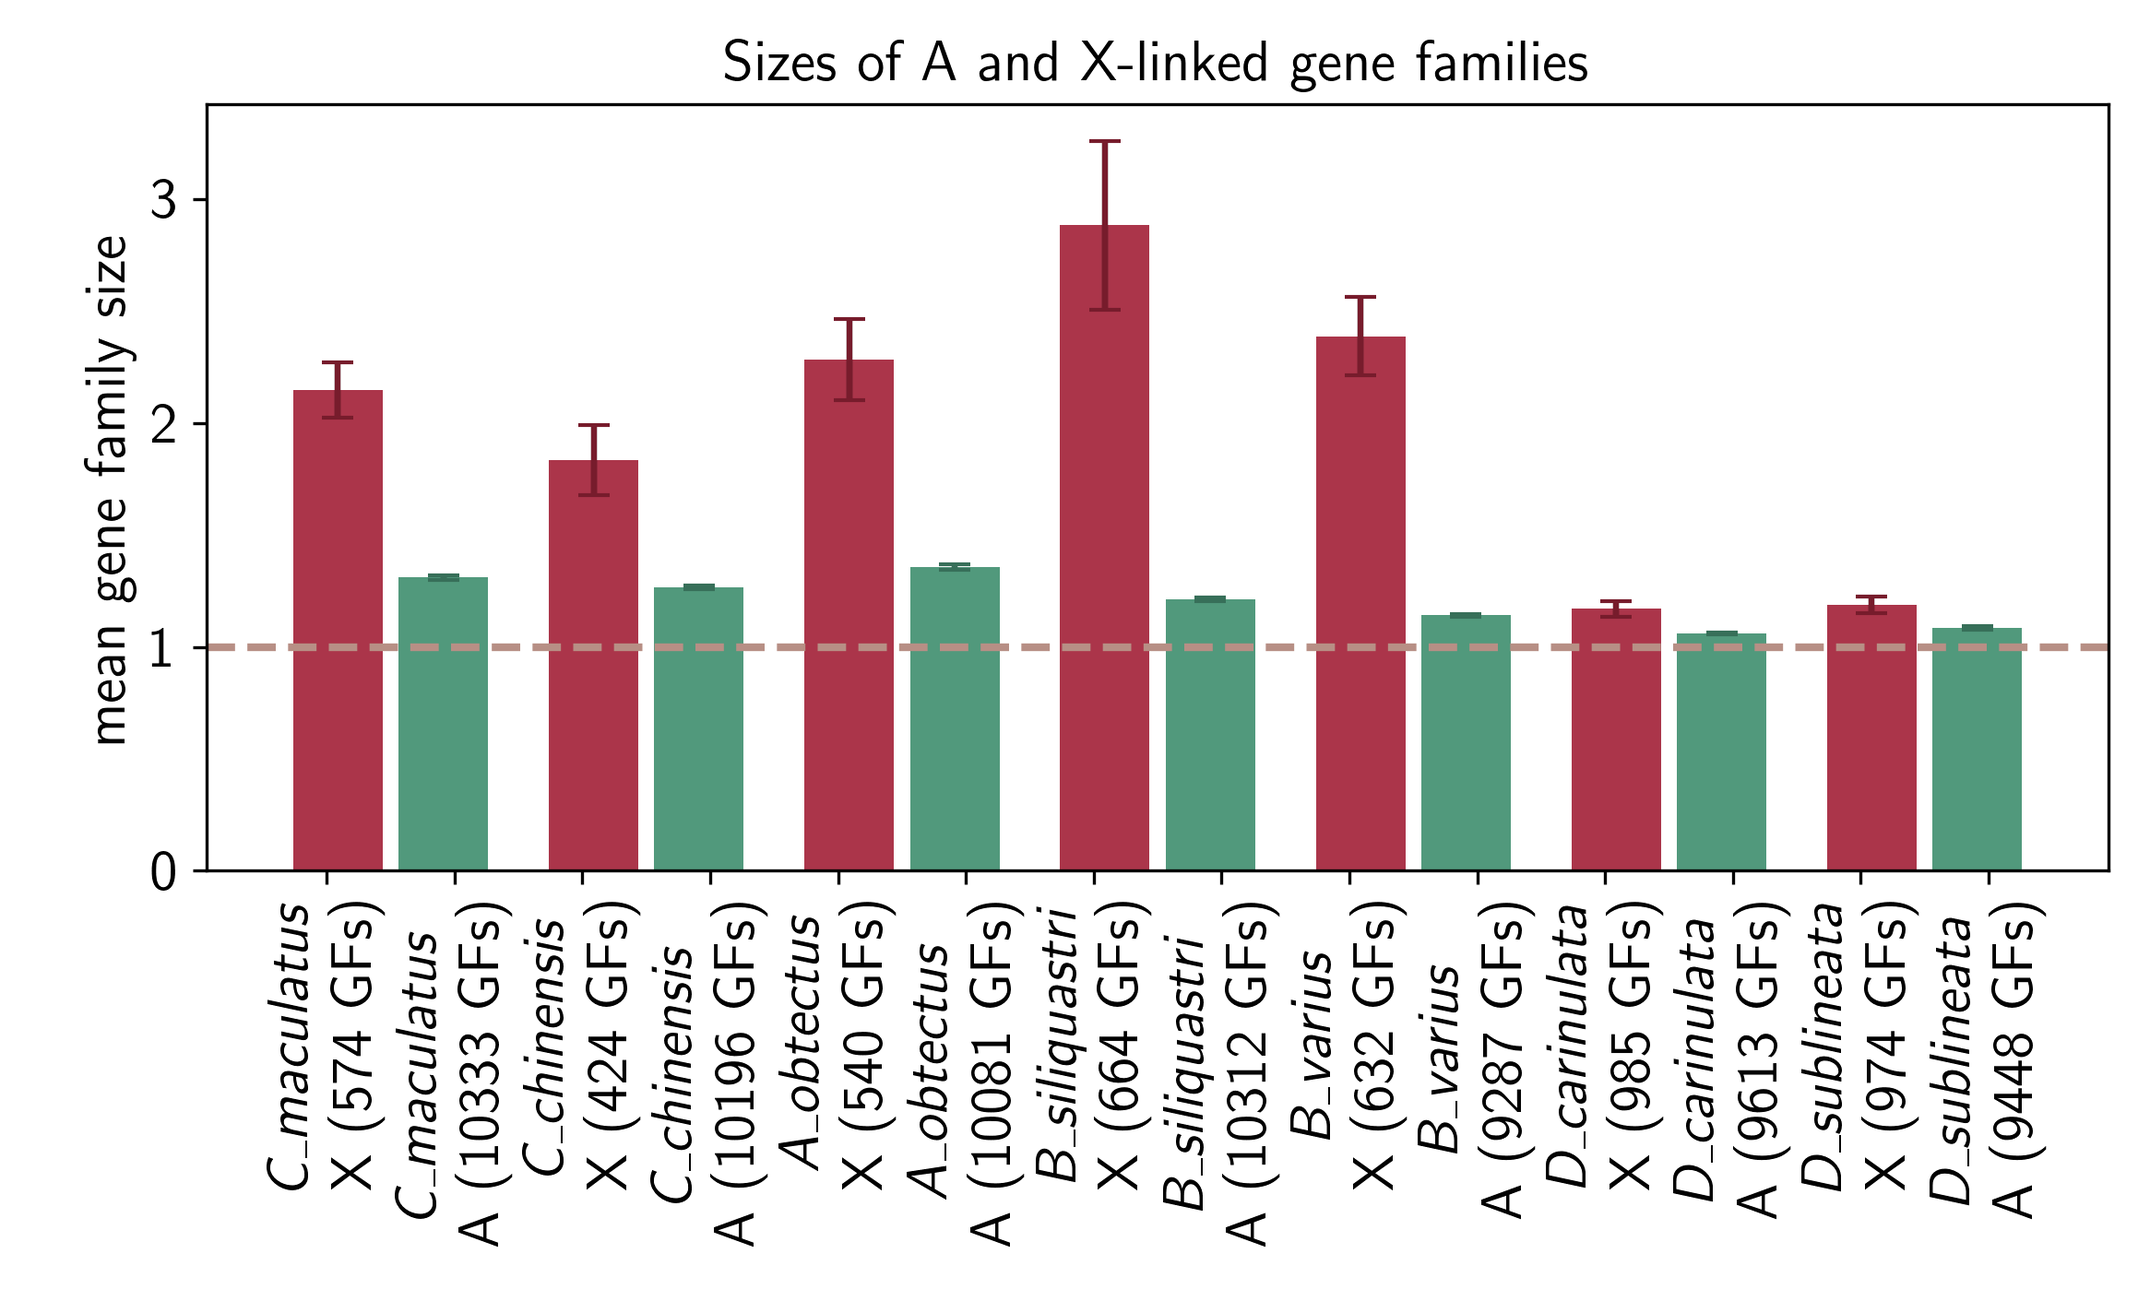
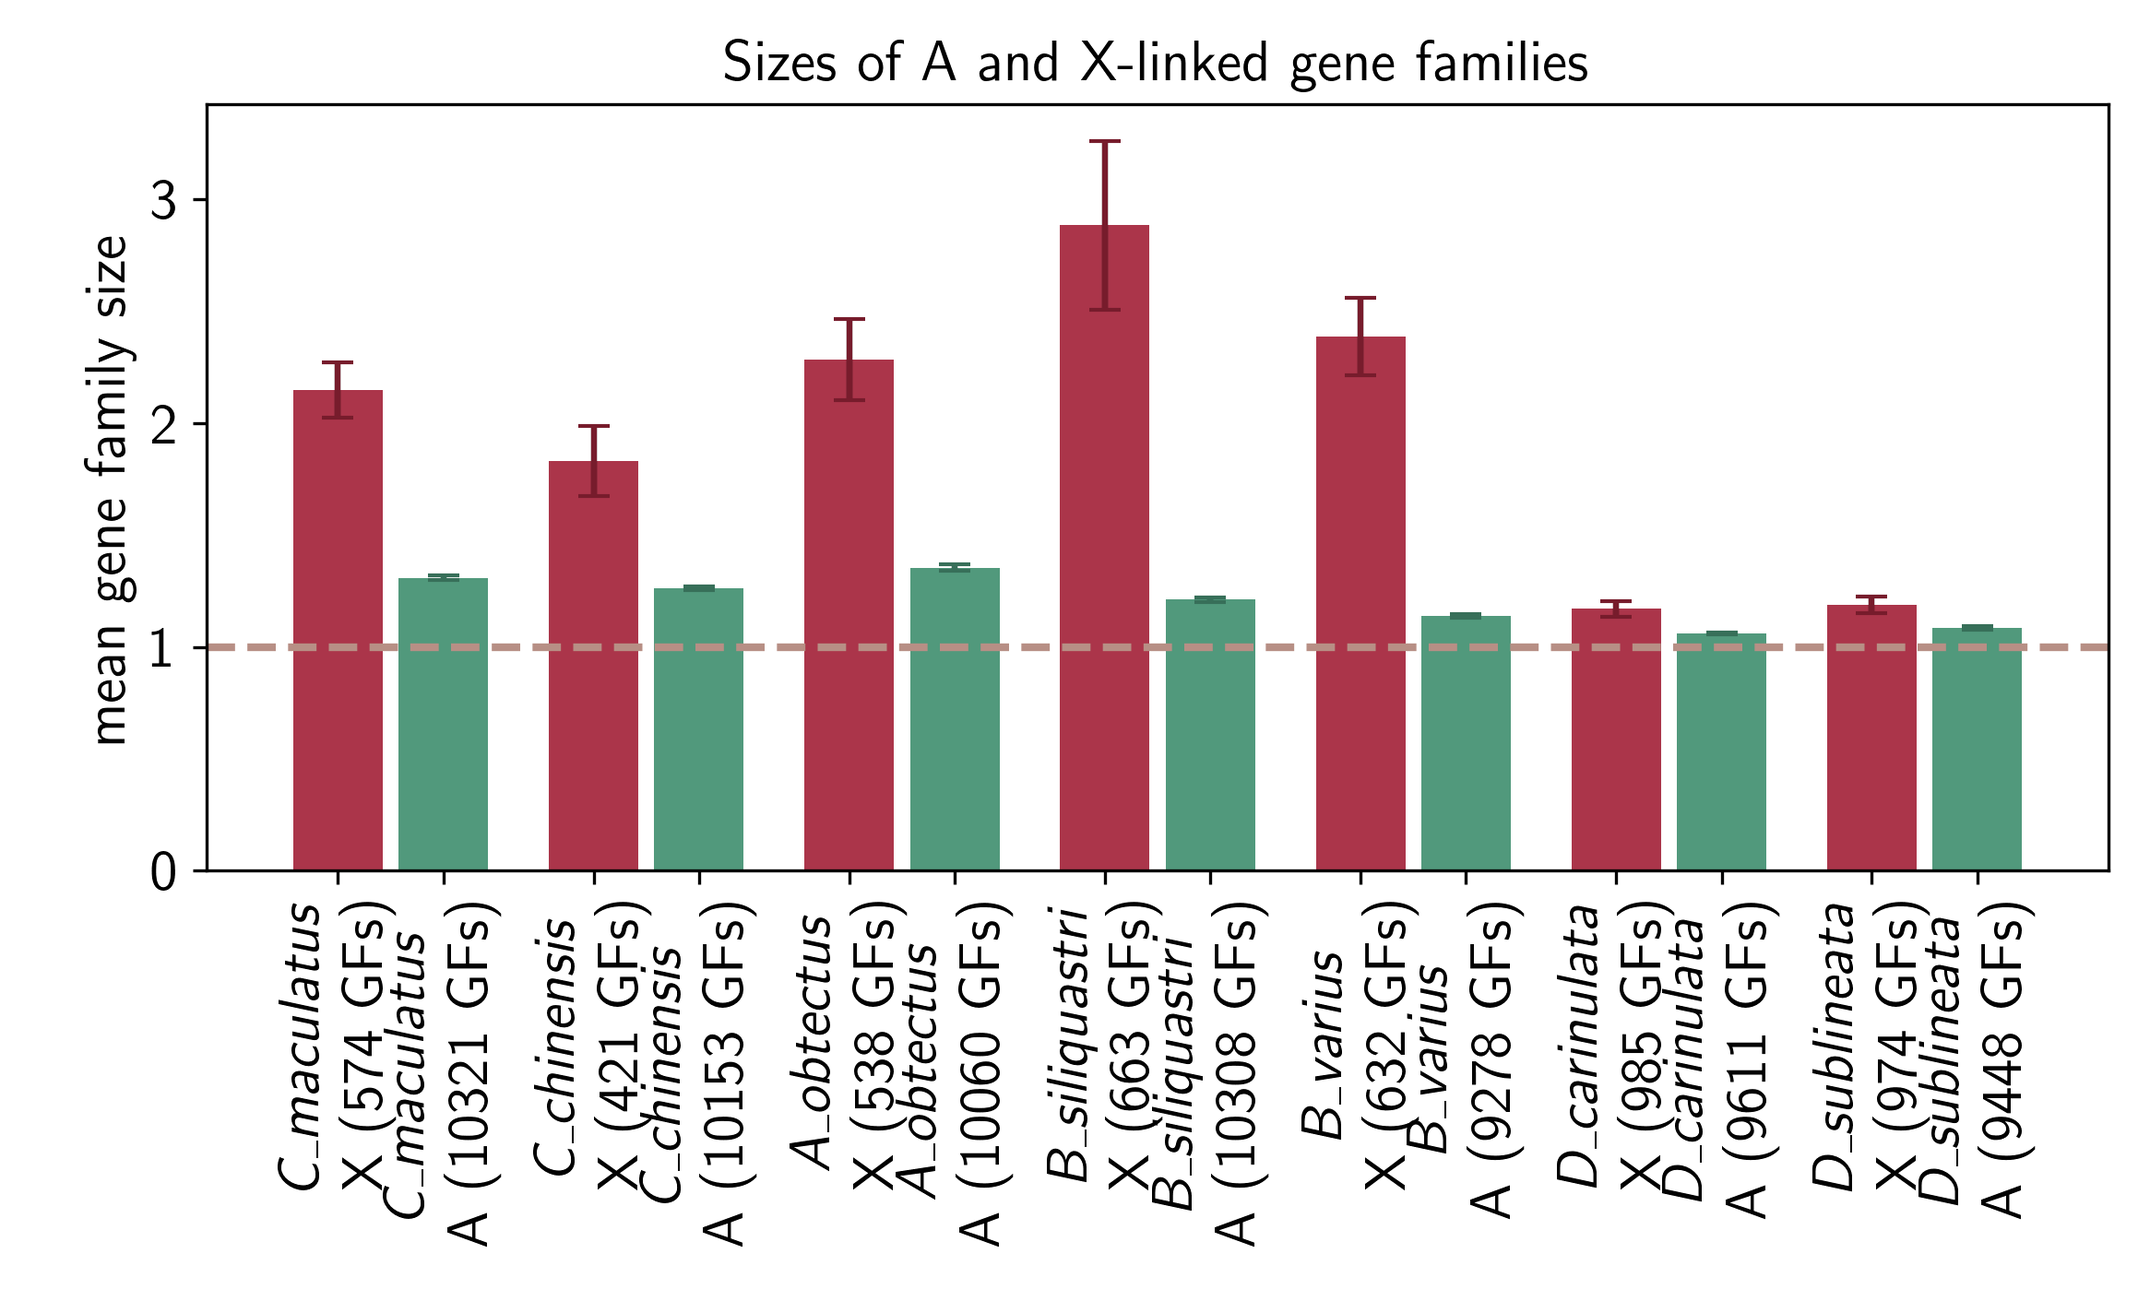
mean GF sizes

Changed region(s): [[0.1236, 0.6767, 0.9575, 0.9843]]

diff --git a/index.html b/index.html
@@ -2954,6 +2954,12 @@ The min. sequence identity threshold is 95%, for min intron length see methods s
     <div style="clear: both;"></div>
 </div>
 
+<h2 id="translocations">Translocation dynamics</h2>
+
+<p float="right">
+    <img loading="lazy" src="data/orthofinder/GF_sizes_XY-linked_vs_A_comparison.png" width="90%" />
+</p>
+
 </div>
 </div>
 </body>

diff --git a/src/parse_orthogroups.py b/src/parse_orthogroups.py
@@ -7,9 +7,11 @@
 import upsetplot
 import numpy as np
 import pandas as pd
-from statistics import mean
+from statistics import mean,median
+from scipy.stats import sem
 import matplotlib.pyplot as plt
 import warnings
+from typing import Literal
 
 import parse_gff as gff
 from sex_chromosomes import get_contig_names
@@ -125,9 +127,11 @@ def parse_orthogroups_with_gff_class(filepath, annotations_dict, sex_chr_dict, u
 
     annot_species = list(annotations_dict.keys())
     annot_placed_dict = parse_orthogroups_dict(filepath=filepath, species_list=annot_species, OG_header="HOG")
-    annot_unplaced_dict = parse_orthogroups_dict(filepath=unassigned_genes_path, species_list=annot_species, OG_header="Orthogroup")
-
-    annot_HOG_dict = annot_placed_dict | annot_unplaced_dict
+    if unassigned_genes_path == "":
+        annot_HOG_dict = annot_placed_dict
+    else:    
+        annot_unplaced_dict = parse_orthogroups_dict(filepath=unassigned_genes_path, species_list=annot_species, OG_header="Orthogroup")
+        annot_HOG_dict = annot_placed_dict | annot_unplaced_dict
 
     print(f"--- read gff annotations ---")
     annot_gff_dict = { species : gff.parse_gff3_general(annotations_dict[species], keep_feature_category=gff.FeatureCategory.Transcript, verbose=False) for species in annot_species}
@@ -261,6 +265,291 @@ def upset_HOG_sex_chromosomes(hog_sexchr_dict, chr_string = "Y", plot_filename =
     plt.close()
 
 
+def get_sexchr_hog_size(sexchr_dict):
+    """
+    Get the orthogroup size from a dictionary like this:
+    HOG_ID : {
+        species_1 : { "O" : n, "X" : n, "Y" : n },
+        species_2 : { "O" : m, "X" : m, "Y" : m },
+        ...
+    }
+    """
+    size = 0
+    for species, sexchr_numbers in sexchr_dict.items():
+        for sexchr,num_paralogs in sexchr_numbers.items():
+            size += num_paralogs
+    return size
+
+
+def get_sexchr_gf_size(sexchr_dict):
+    """
+    Get the gene family size in the species from a dictionary like this:
+    species_2 : { "O" : m, "X" : m, "Y" : m }
+    """
+    size = 0
+    for sexchr,num_paralogs in sexchr_dict.items():
+        size += num_paralogs
+    return size
+
+
+def check_sex_linked_GF_size(hog_sexchr_dict, species_list, chr_string: Literal["X", "Y", "XY"], excl_chr:Literal["X", "Y",""] = "", outfile="boxplot.png", min_OG_size = 2, ymax_plot = 0, plot_type:Literal["medians_box", "means_bar"]="means_bar"):
+    """
+    Take sexchr size dict and make list of orthogroup sizes that are X-linked/Y-linked 
+    if excl_chr is specified, then all orthogroups that have members on this chromosome are excluded from any analysis
+    """
+    chr_sizes = { c : {species : [] for species in species_list} for c in chr_string}
+    # chr_alt_sizes = {species : [] for species in species_list}
+    O_sizes = {species : [] for species in species_list}
+    excl_OG = []
+
+    if chr_string == "XY":
+        plot_type = "means_bar"
+        
+    for HOG_id, sexchr_species_dict in hog_sexchr_dict.items():
+        
+        if get_sexchr_hog_size(sexchr_species_dict) <min_OG_size:
+            excl_OG.append(HOG_id)
+            continue
+        
+        for species, sexchr_dict in sexchr_species_dict.items():
+            
+            if get_sexchr_gf_size(sexchr_dict=sexchr_dict) ==0:
+                continue
+
+            if excl_chr != "":
+                if sexchr_dict[excl_chr] >0:
+                    continue # skip other chromosome entirely, don't even add to O-sizes
+
+            chr_count = {c : 0 for c in chr_string}
+            A_count = {c : 0 for c in chr_string}
+            for chr_ in chr_string:
+                if sexchr_dict[chr_] > 0:
+                    chr_count[chr_]+= 1
+                elif sexchr_dict["O"] > 0: # only count size when the relevant orthogroup is larger than 0 in the current species
+                    A_count[chr_]+=1
+            
+            if len(chr_string)>1:
+                if len(chr_string) == sum(chr_count.values()):
+                    print(f"{HOG_id}:{species}:{chr_count} : {sexchr_species_dict}")
+                    continue # gene on X and Y -> do not include
+            
+                if len(chr_string) == sum(A_count.values()):
+                    # only added to A_count every time -> not in X and not in Y -> A exclusive
+                    O_sizes[species].append(get_sexchr_gf_size(sexchr_dict=sexchr_dict))
+            
+                # if not A-exclusive and also not on both X and Y (see 'continue' above)...
+                else:
+                    for chr_,ccount in chr_count.items():
+                        if ccount>0:
+                            chr_sizes[chr_][species].append(get_sexchr_gf_size(sexchr_dict=sexchr_dict))
+
+            else:
+                if sum(chr_count.values())>0:
+                    chr_sizes[chr_string][species].append(get_sexchr_gf_size(sexchr_dict=sexchr_dict))
+                elif sum(A_count.values())>0:
+                    O_sizes[species].append(get_sexchr_gf_size(sexchr_dict=sexchr_dict))
+
+
+
+    hog_excl = [og for og in excl_OG if "HOG" in og]
+    print(f"{len(excl_OG)} orthogroups excluded since they have a size < {min_OG_size}\n  {len(excl_OG)-len(hog_excl)} true unplaced genes and {len(hog_excl)} HOGs (might be part of Cmac_C and only one other species making them effectively singletons for this analysis) ")
+    # for hog_id in hog_excl:
+    #     print_dict_ = hog_sexchr_dict[hog_id]
+    #     print(f"{hog_id} : {print_dict_}")
+
+
+    ## make dicts into one interleaved ones for easier plotting
+    data_dict = {}
+
+    if len(chr_string)==1:
+        for species in species_list:
+            chr_size = chr_sizes[chr_string][species]
+            data_dict[f"\\textit{{{species}}}\n{chr_string} ({len(chr_size)} GFs)"] = chr_size
+            O_size = O_sizes[species]
+            data_dict[f"\\textit{{{species}}}\nA ({len(O_size)} GFs)"] = O_size
+            # print(f" * {species} : GF_size means ({chr_string}: {mean(chr_size):.3f}) and (A {mean(O_size):.3f})")
+            if plot_type == "means_bar":
+                try:
+                    print(f" * {species} : GF_size means ({chr_string}: {mean(chr_size):.3f} (length {len(chr_size)}), A: {mean(O_size):.3f} (length {len(O_size)}))")
+                except:
+                    print(f" * {species} : GF_size cant calculate means! ({chr_string}: length {len(chr_size)}), A: (length {len(O_size)}))")
+                    raise RuntimeError
+            else:
+                print(f" * {species} : GF_size medians ({chr_string}: {median(chr_size):.3f}, A: {median(O_size):.3f})")
+    elif len(chr_string)>1:
+        for i, species in enumerate(species_list):
+            for chr_ in chr_string:
+                chr_size = chr_sizes[chr_][species]
+                # data_dict[f"\\textit{{{species}}}\n{chr_} ({len(chr_size)} GFs)"] = chr_size
+                data_dict[f"({len(chr_size)}) {chr_}:{i}"] = chr_size
+
+            # print(f" * {species} : GF_size means ({chr_string}: {mean(chr_size):.3f}) and (A {mean(O_size):.3f})")
+            try:
+                print(f"{species}")
+                for c in chr_string:
+                    print(f"\t({c}: mean {mean(chr_size):.3f} ; length {len(chr_size)})")
+            except:
+                print(f"{species}")
+                for c in chr_string:
+                    print(f"\t({c}: length {len(chr_size)})")
+                # print(f"\t(A: length {len(O_size)})")
+                raise RuntimeError
+
+            O_size = O_sizes[species]
+            print(f"\t(A: mean {mean(O_size):.3f} ; length {len(O_size)})")
+            #data_dict[f"\\textit{{{species}}}\nA ({len(O_size)} GFs)"] = O_size
+            data_dict[f"({len(O_size)}) A:{i}"] = O_size
+
+    ### make boxplot to show median size
+    
+    plt.rcParams['text.usetex'] = True # use \textit{} for species names
+    plt.rcParams['text.latex.preamble'] = r'\usepackage{sfmath} \renewcommand{\familydefault}{\sfdefault}'
+    plt.rcParams['font.family'] = 'sans-serif'
+    # plt.rcParams['font.size'] = 16
+    fs = 15 # font size
+    lw = 2 # line width
+
+    colors_dict = {
+        "Y_fill" : "#495E83", # dusk blue
+        "Y_edge" : "#374C6E", # dusk blue darker
+        "Y_medians" : "#A7CCED", # icy blue
+        "X_fill" : "#AB354A", # cherry rose
+        "X_edge" : "#771C2C", # dark amaranth
+        "X_medians" : "#EA9AA9", # cotton candy
+        "O_fill" : "#51997C", # seagrass
+        "O_edge" : "#376F59", # deep teal
+        "O_medians" : "#8FCEB5", # perl_aqua
+    }
+
+    aspect_ratio = 20 / 12 # height / width
+    height_pixels = 1400  # Height in pixels
+    dpi = 300
+    width_pixels = int(height_pixels * aspect_ratio)  # Width in pixels
+
+    fig, ax = plt.subplots(1,1,figsize=(width_pixels/dpi, height_pixels/dpi))
+
+    # tick_labels = [f"{key}\n({len(lists)} GFs)" for key,lists in data_dict.items()]
+    tick_labels = [k.split(":")[0] for k in data_dict.keys()]
+    lists = [means_list for means_list in data_dict.values()]
+
+    if plot_type == "medians_box":
+
+        width = 0.7
+        pos_adjust=width*0.125
+
+        tick_pos = [i+pos_adjust if i%2==1 else i-pos_adjust for i in range(1,len(tick_labels)+1)]
+        bp = ax.boxplot(lists, positions=tick_pos, widths=width, patch_artist=True)   
+        # set axis labels
+        ax.set_ylabel("gene family size", fontsize=fs)
+
+        ## modify boxplot colors
+        if True:
+            for i, box in enumerate(bp['boxes']):
+                if i%2==0:
+                    box.set(facecolor=colors_dict[f"{chr_string}_fill"], edgecolor=colors_dict[f"{chr_string}_edge"], linewidth=2)
+                else:
+                    box.set(facecolor=colors_dict["O_fill"], edgecolor=colors_dict["O_edge"], linewidth=2)
+            for i, median_ in enumerate(bp['medians']):
+                if i%2==0:
+                    median_.set(color=colors_dict[f'{chr_string}_medians'], linewidth=lw)
+                else:
+                    median_.set(color=colors_dict['O_medians'], linewidth=lw)
+            for i, whisker in enumerate(bp['whiskers']):
+                # print(f"whisker: {i}")
+                if i//2 % 2==0:
+                    whisker.set(color=colors_dict[f'{chr_string}_edge'], linestyle='-',linewidth=lw)
+                else:
+                    whisker.set(color=colors_dict['O_edge'], linestyle='-',linewidth=lw)
+            for i, cap in enumerate(bp['caps']):
+                if i//2 % 2==0:
+                    cap.set(color=colors_dict[f'{chr_string}_edge'],linewidth=lw)
+                else:
+                    cap.set(color=colors_dict['O_edge'],linewidth=lw)
+            for i, flier in enumerate(bp['fliers']):
+                if i%2==0:
+                    flier.set(marker='.', markerfacecolor=colors_dict[f'{chr_string}_edge'], markeredgecolor=colors_dict[f'{chr_string}_edge'])
+                else:
+                    flier.set(marker='.', markerfacecolor=colors_dict['O_edge'], markeredgecolor=colors_dict['O_edge'])
+
+    elif plot_type == "means_bar":
+
+        if len(chr_string)>1:
+            tick_pos = [i for i in range(1,len(tick_labels)+1)]
+            box_width = 1/5
+            pos_adjust=box_width*1.3
+            for i in range(len(tick_labels)):
+                if i%3 == 0:
+                    tick_pos[i] =1+ i//3 -pos_adjust
+                if i%3 == 1:
+                    tick_pos[i] =1+ i//3 
+                if i%3 == 2:
+                    tick_pos[i] =1+ i//3 +pos_adjust
+                print(f"{i} : {tick_pos[i]}")
+        else:
+            box_width = 0.7
+            pos_adjust=box_width*0.125
+            tick_pos = [i+pos_adjust if i%2==1 else i-pos_adjust for i in range(1,len(tick_labels)+1)]
+
+        ymax_plot = 0
+        colors_list = []
+        errors_colors = []
+        for data_key in tick_labels:
+            if " A" in data_key:
+                colors_list.append(colors_dict["O_fill"])
+                errors_colors.append(colors_dict["O_edge"])
+            else:
+                for chr_ in chr_string:
+                    if f" {chr_}" in data_key:
+                        colors_list.append(colors_dict[f"{chr_}_fill"])
+                        errors_colors.append(colors_dict[f"{chr_}_edge"])
+        
+        # set axis labels
+        ax.set_ylabel("mean gene family size", fontsize=fs)
+        means_lists = [mean(gf_sizes) for gf_sizes in lists]
+        sem_lists = [sem(gf_sizes) for gf_sizes in lists]
+        ax.bar(x=tick_pos, height=means_lists, yerr=sem_lists, width=box_width, color = colors_list)
+
+        #custom errorbars for matching colors
+        for xi, m, e, c in zip(tick_pos, means_lists, sem_lists, errors_colors):
+            ax.errorbar(xi, m, yerr=e, fmt="none", ecolor=c, capsize=4, elinewidth=1.5)
+
+        if len(chr_string)>1:
+            fs_factor=0.8
+            ax2 = ax.secondary_xaxis('bottom')
+            ax2.set_xticks([i+1 for i in range(len(species_list))])
+            species_list_ = [s.replace("_", ". ") for s in species_list]
+            ax2.set_xticklabels([f"\\textit{{{s}}}" for s in species_list_], fontsize=fs*fs_factor, rotation=90)
+            ax2.spines['bottom'].set_position(('outward', 70))   # 70 fo rbelow
+            ax2.xaxis.set_ticks_position('none')
+            ax2.spines['bottom'].set_visible(False)
+            ax2.tick_params(axis='x', labelsize=fs*fs_factor)
+
+    # ax.set_yscale('log')
+    ax.set_xlabel("")
+    ax.tick_params(axis='x', labelsize=fs) 
+    ax.set_xticks(ticks = tick_pos, labels = tick_labels, fontsize=fs, rotation=90)
+    ax.tick_params(axis='y', labelsize=fs)
+    if chr_string == "XY":
+        chr_string_ = "X or Y"
+    else:
+        chr_string_ = chr_string
+    title = f"Sizes of A and {chr_string_}-linked gene families"
+    ax.set_title(title, fontsize=fs)
+
+    if ymax_plot>0:
+        ax.set_ylim(0.5,ymax_plot)
+    # layout rect=(left, bottom, right, top)
+
+    ax.axhline(y=1, color='#B78F85', linestyle='--', linewidth=lw)
+    plt.tight_layout()# rect=[0.0, 0.05, 1, 1])
+
+    # transparent background
+    plt.savefig(outfile, dpi = dpi, transparent = True)
+    print(f"plot saved in current working directory as: {outfile}")
+
+
+
+
 if __name__ == "__main__":
     
     username="miltr339"
@@ -292,11 +581,35 @@ if __name__ == "__main__":
         miniprot_dict = data_paths.get_miniprot_paths(username=username)
         mini_filename = "with_mini_paralogs_"
 
-    ### read dict with sex chromosome 
-    mini_hog_sexchr_dict = parse_orthogroups_with_gff_class(filepath=orthogroups_file, annotations_dict=annot_dict, unassigned_genes_path=unassigned_genes_path, sex_chr_dict=sex_chromosome_contigs, miniprot_paths_dict=miniprot_dict)
     
     ### plot the upsetplot for the different chromosome categories
-    min_intersection_size = {"X" : 20, "Y" : 0, "XY" : 0}
-    for chr in ["Y","X","XY"]:
-        print(f"\n\n>>>>> {chr} <<<<<")
-        upset_HOG_sex_chromosomes(hog_sexchr_dict=mini_hog_sexchr_dict, chr_string=chr, plot_filename=f"{data_dir}/orthogroup_presence_{mini_filename}{chr}_upsetplot.png", min_intersection_size=min_intersection_size[chr])
+    if False:
+        ### read dict with sex chromosome 
+        mini_hog_sexchr_dict = parse_orthogroups_with_gff_class(filepath=orthogroups_file, annotations_dict=annot_dict, unassigned_genes_path=unassigned_genes_path, sex_chr_dict=sex_chromosome_contigs, miniprot_paths_dict=miniprot_dict)
+        
+        min_intersection_size = {"X" : 20, "Y" : 0, "XY" : 0}
+        for chr in ["Y","X","XY"]:
+            print(f"\n\n>>>>> {chr} <<<<<")
+            upset_HOG_sex_chromosomes(hog_sexchr_dict=mini_hog_sexchr_dict, chr_string=chr, plot_filename=f"{data_dir}/orthogroup_presence_{mini_filename}{chr}_upsetplot.png", min_intersection_size=min_intersection_size[chr])
+
+    ### check if gene fmailies with X/Y members are on average larger
+    if True:
+        mini_hog_sexchr_dict = parse_orthogroups_with_gff_class(filepath=orthogroups_file, annotations_dict=annot_dict, sex_chr_dict=sex_chromosome_contigs, miniprot_paths_dict=miniprot_dict)
+        ymax_plot = {"X" : 20, "Y" : 0} # specify y limit in gene family size for the plot  (no filtering of the GF size data itself!)
+
+        if False:
+            ## plot X and Y in separate plots
+            for chr in ["Y","X"]:
+                excl_chr = "X"
+                if chr == "X":
+                    excl_chr = "Y"
+                filename = f"{data_dir}/GF_sizes_{chr}-linked_vs_A_comparison.png"
+
+                print(f"\n\n>>>>> {chr} <<<<< (excl: {excl_chr})")
+                check_sex_linked_GF_size(hog_sexchr_dict=mini_hog_sexchr_dict, species_list=species_order, chr_string=chr, excl_chr=excl_chr, outfile=filename, ymax_plot = ymax_plot[chr])
+        else:
+            # plot three-color bar chart with all of them
+            chr_ = "XY"
+            filename = f"{data_dir}/GF_sizes_{chr_}-linked_vs_A_comparison.png"
+            print(f"\n\n>>>>> {chr_} <<<<< ")
+            check_sex_linked_GF_size(hog_sexchr_dict=mini_hog_sexchr_dict, species_list=species_order, chr_string=chr_, outfile=filename, plot_type="means_bar")
